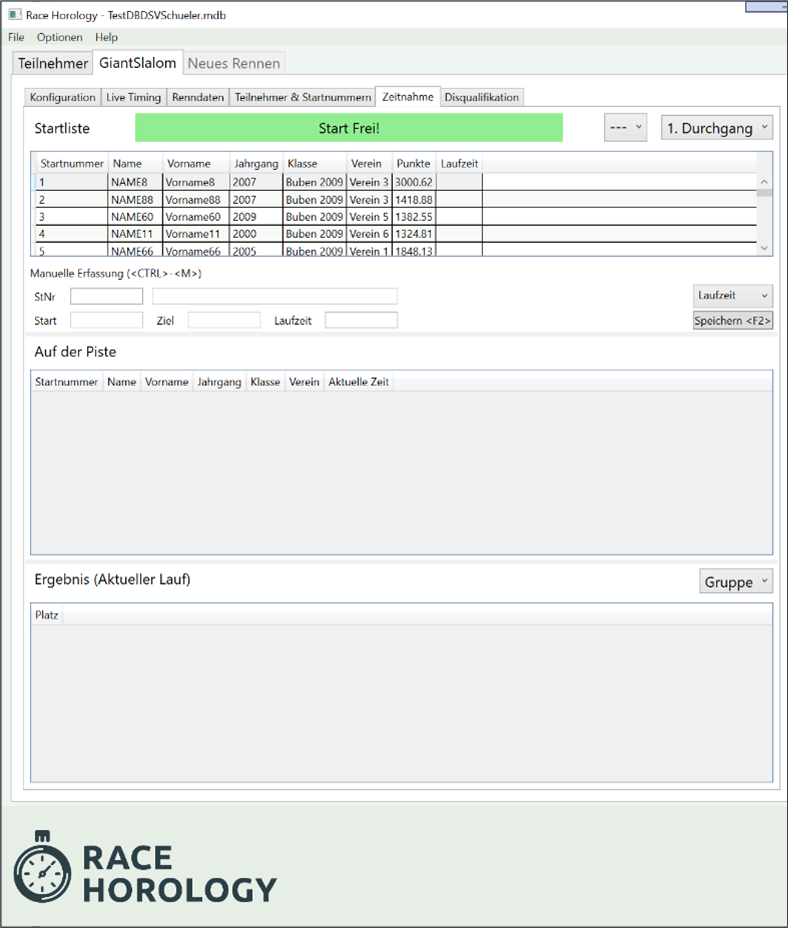
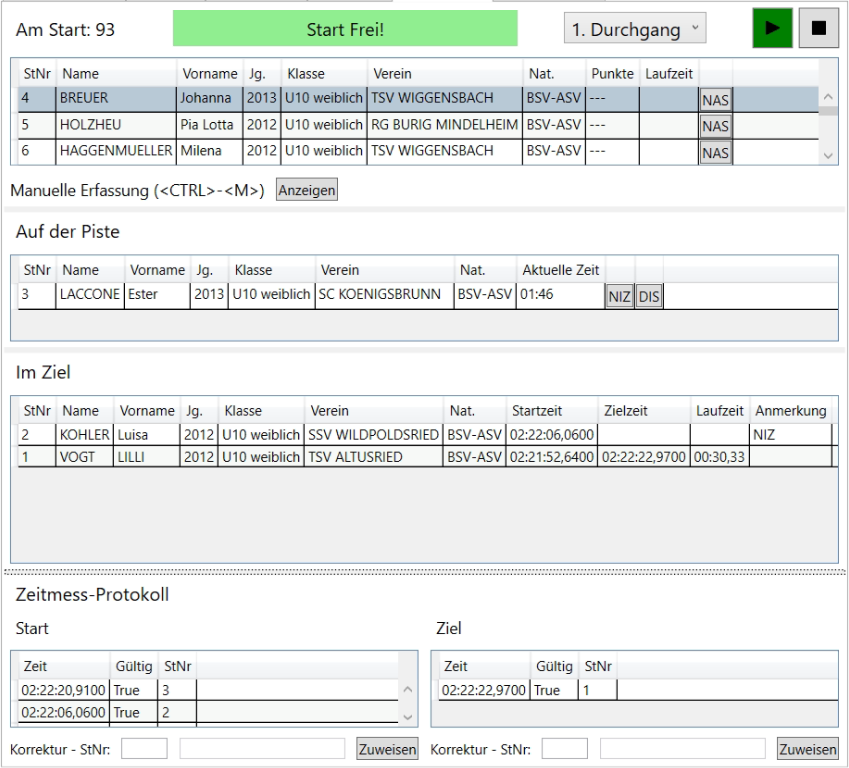
update picture for timing and add new "timing stopped" notification feature. small updates

diff --git a/content/de/renndurchfuehrung/renndurchfuehrung.md b/content/de/renndurchfuehrung/renndurchfuehrung.md
@@ -23,15 +23,21 @@ Der Zeitnahmebereich zeigt drei Listen an:
 -	im mittleren Bereich die Rennläufer die gerade auf der Strecke sind und 
 -	im unteren Bereich ist das aktuelle Klassement ersichtlich. 
 
+Zusätzlich kann über die Optionen der Bereich "Zeitstempel-Teilnehmer-Zuweisungbereich" angezeigt werden. (Experimentelle Funktion)
+
 ###	Online Zeitnahme
 
-Um die Zeiten direkt aus dem Zeitnahmegerät während des Rennens zu übernehmen muss man Online Gehen. Das Online Gehen erfolgt über  **Verbinden**{.btn .btn-secondary} im Zeitnahmebereich in der Statuszeile des Programms. 
+Um die Zeiten direkt aus dem Zeitnahmegerät während des Rennens zu übernehmen muss die Zeitnahme aktiv sein. Zuerst muss das Zeitnahmegerät (Schnittselle) mit **Verbinden**{.btn .btn-secondary} im Zeitnahmebereich in der Statuszeile des Programms aktiviert werden. Danach über den "Starten"-Knopf die Zeitnahme starten. Dies wird auch mit einem orange hinterlegten Hinweis angezeigt.
+
+![Zeitnahme ist gestoppt!](../../assets/images/de/zeitmessung_gestoppt.png)
+
+**Achtung:**{.badge .badge-danger .text-uppercase} Ohne verbundene Schnittstelle UND gestarteter Zeitnahme werden keine Daten übernommen! {.alert .alert-warning}
 
 ![Zeitnahmetab](../../assets/images/de/statuszeile.png)
 
-Wenn man online ist, ist es nicht möglich den aktuellen Durchgang zu wechseln. Um den Durchgang zu wechseln, gehen Sie Offline, wechseln Sie den Durchgang und gehen danach wieder Online. {.alert .alert-success}
+Während der Zeitnahme, ist es nicht möglich den aktuellen Durchgang zu wechseln. Um den Durchgang zu wechseln, Zeitnahme stoppen, den Durchgang wechseln und gehen danach wieder starten. {.alert .alert-success}
 
-Das verwendete Zeitnahmegerät und der verwendete COM Port kann im Menü Optionen eingestellt werden. {.alert .alert-success}
+Das verwendete Zeitnahmegerät und der COM Port (Schnittstelle) kann im Menü Optionen eingestellt werden. {.alert .alert-success}
 
 ###	Zeitnahme Hilfsfunktionen
 
@@ -39,16 +45,25 @@ Es gibt folgende Zeitnahme Hilfsfunktionen. Entsprechende Zeit-Einstellungen kö
 
 •	**Automatisch nicht im Ziel**
 
-Wenn ein Läufer nach einer bestimmten Zeit nicht im Ziel ist, wird dieser automatisch als „nicht im Ziel“ (NiZ) gewertet.
+Wenn ein Läufer nach einer bestimmten Zeit nicht im Ziel ist, wird dieser automatisch als „nicht im Ziel“ (NIZ) gewertet.
 
 •	**Automatisch nicht im Start**
 
-Wenn eine bestimmte Anzahl Starter nach einem nicht gestarteten Läufer gestartet sind, wird der nicht gestartete Läufer automatisch als "nicht am Start" (NaS) gewertet. 
+Wenn eine bestimmte Anzahl Starter nach einem nicht gestarteten Läufer gestartet sind, wird der nicht gestartete Läufer automatisch als "nicht am Start" (NAS) gewertet. 
 
 Standardmäßig ist diese Option auf 9999 Läufer gesetzt, um bei Nachmeldungen "nicht am Start" für den Läufer nicht zu setzen. Dieser Wert kann im Menü "Optionen" geändert werden. {.alert .alert-success}
 
 •	**„Start Frei! – Signal“**
-Das „Start Frei! – Signal“ erscheint nach einer einstellbaren Zeit, nachdem ein Läufer gestartet ist. Hierbei ertönt auch ein Signalton. 
+
+Das „Start Frei! – Signal“ mit Countdown erscheint nach einer einstellbaren Zeit (Optionsmenü), nachdem ein Läufer gestartet ist. 
+
+![Start Frei in 40 Sekunden!](../../../assets/images/de/zeitmessung_startfreiinX.png)
+
+Danach schaltet das Signal wieder zurück auf grün:
+
+![Start Frei!](../../../assets/images/de/zeitmessung_startfrei.png)
+
+Diese Funktion kann als Ersatz für eine Startuhr genutzt werden. Hierbei ertönt auch ein Signalton.
 
 ###	Zeitnahme Testfunktionen
 

diff --git a/content/de/teilnehmer/klassen_gruppen.md b/content/de/teilnehmer/klassen_gruppen.md
@@ -22,7 +22,9 @@ Beim Jahrgang kann auch das Alter angegeben werden. Das Alter wird in die entspr
 
 Die Änderungen werden erst nach dem Drücken von **Speichern**{.btn .btn-secondary} übernommen. {.alert .alert-success}
 
-##	Erstellen und Editieren von Kategorien
+Über **Jahrgang + 1**{.btn .btn-secondary} bzw. **Jahrgang - 1**{.btn .btn-secondary} ist es möglich die Jährgänge aller Klassen zu erhöhen oder zu verringern - dies ist sinnvoll wenn Klassen aus einem früheren Jahr importiert werden.
+
+##	Erstellen und Editieren von Kategorien (Geschlecht)
 
 ![Kategorien](../../assets/images/de/kategorien.png)
 
